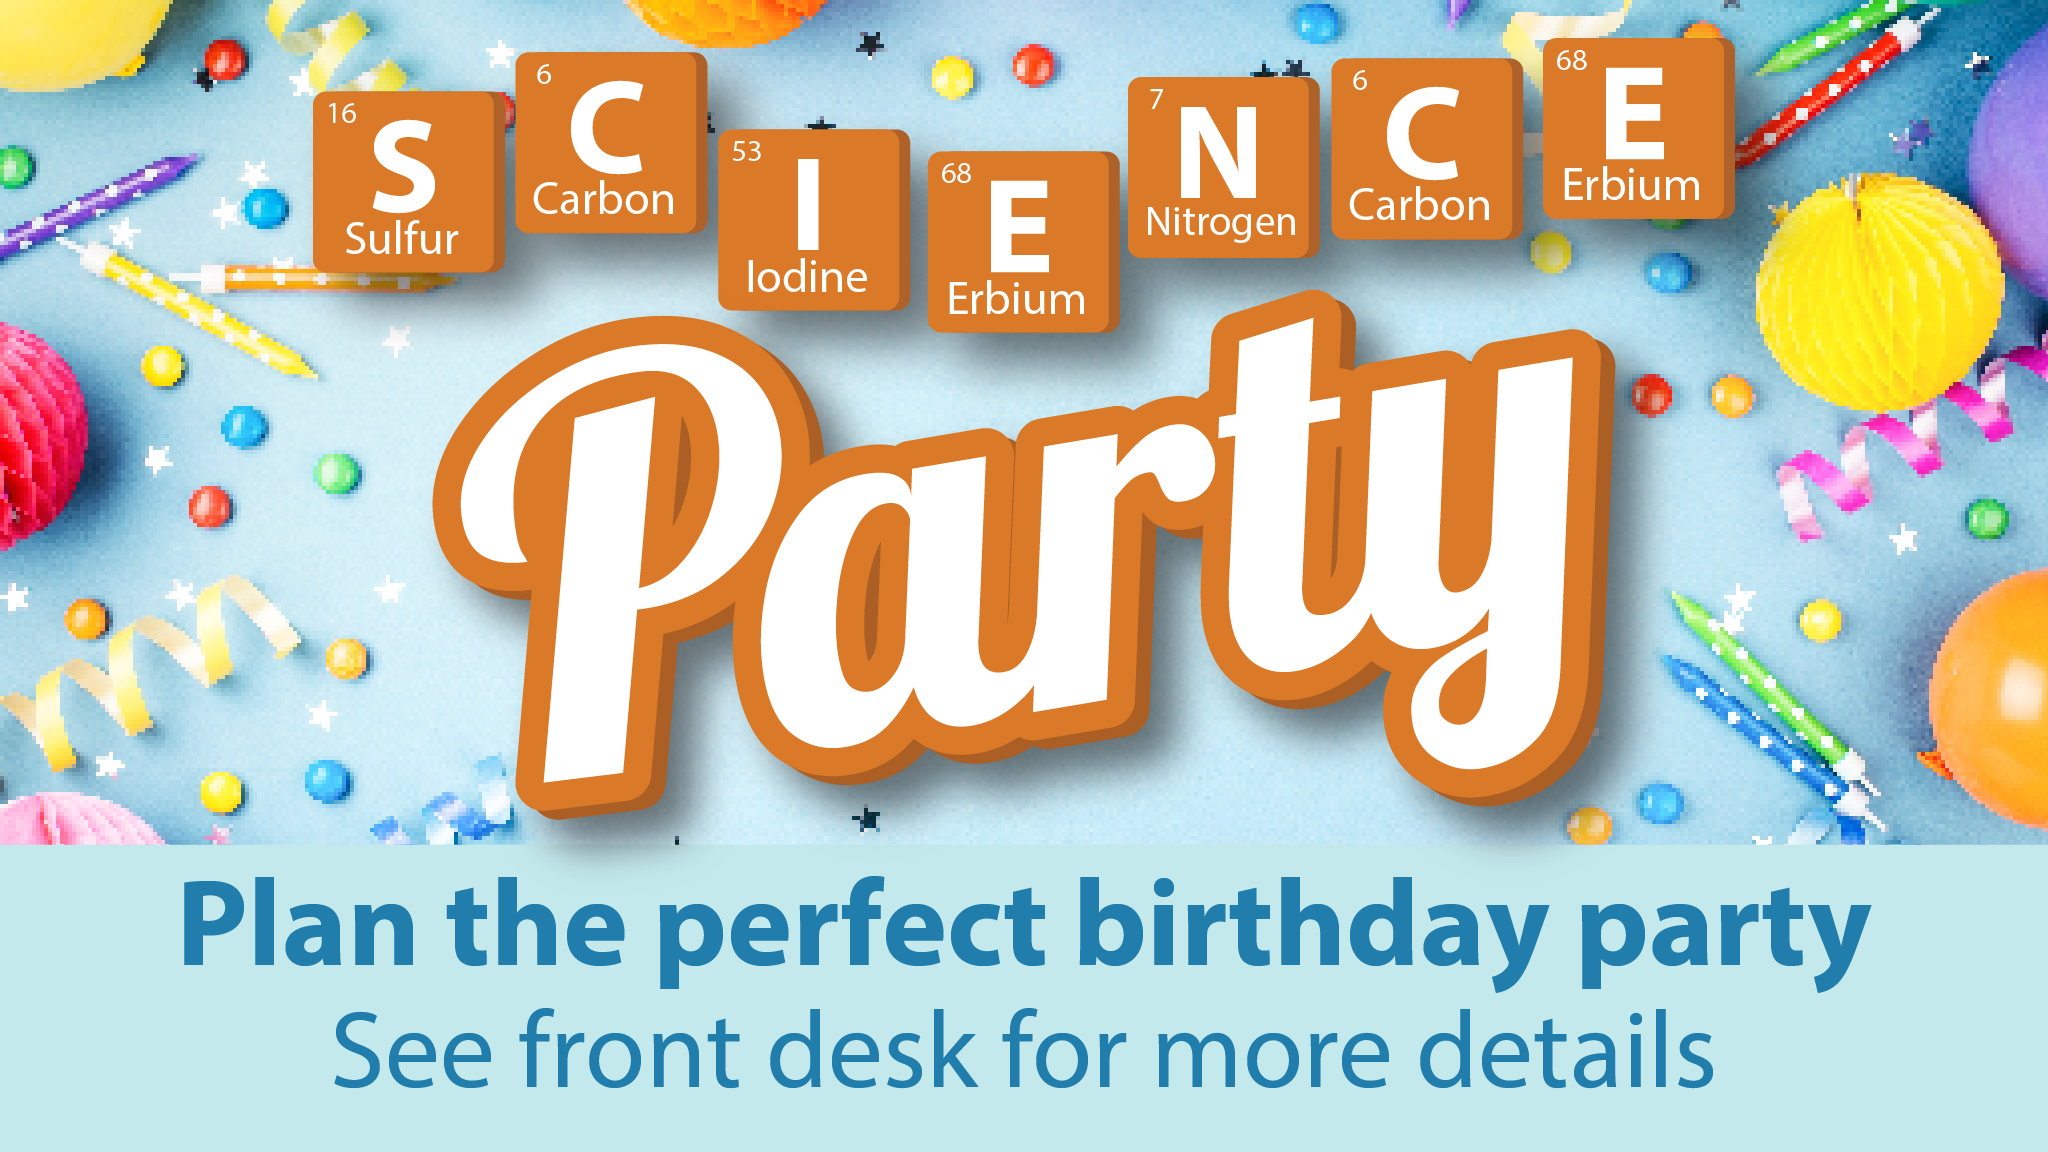
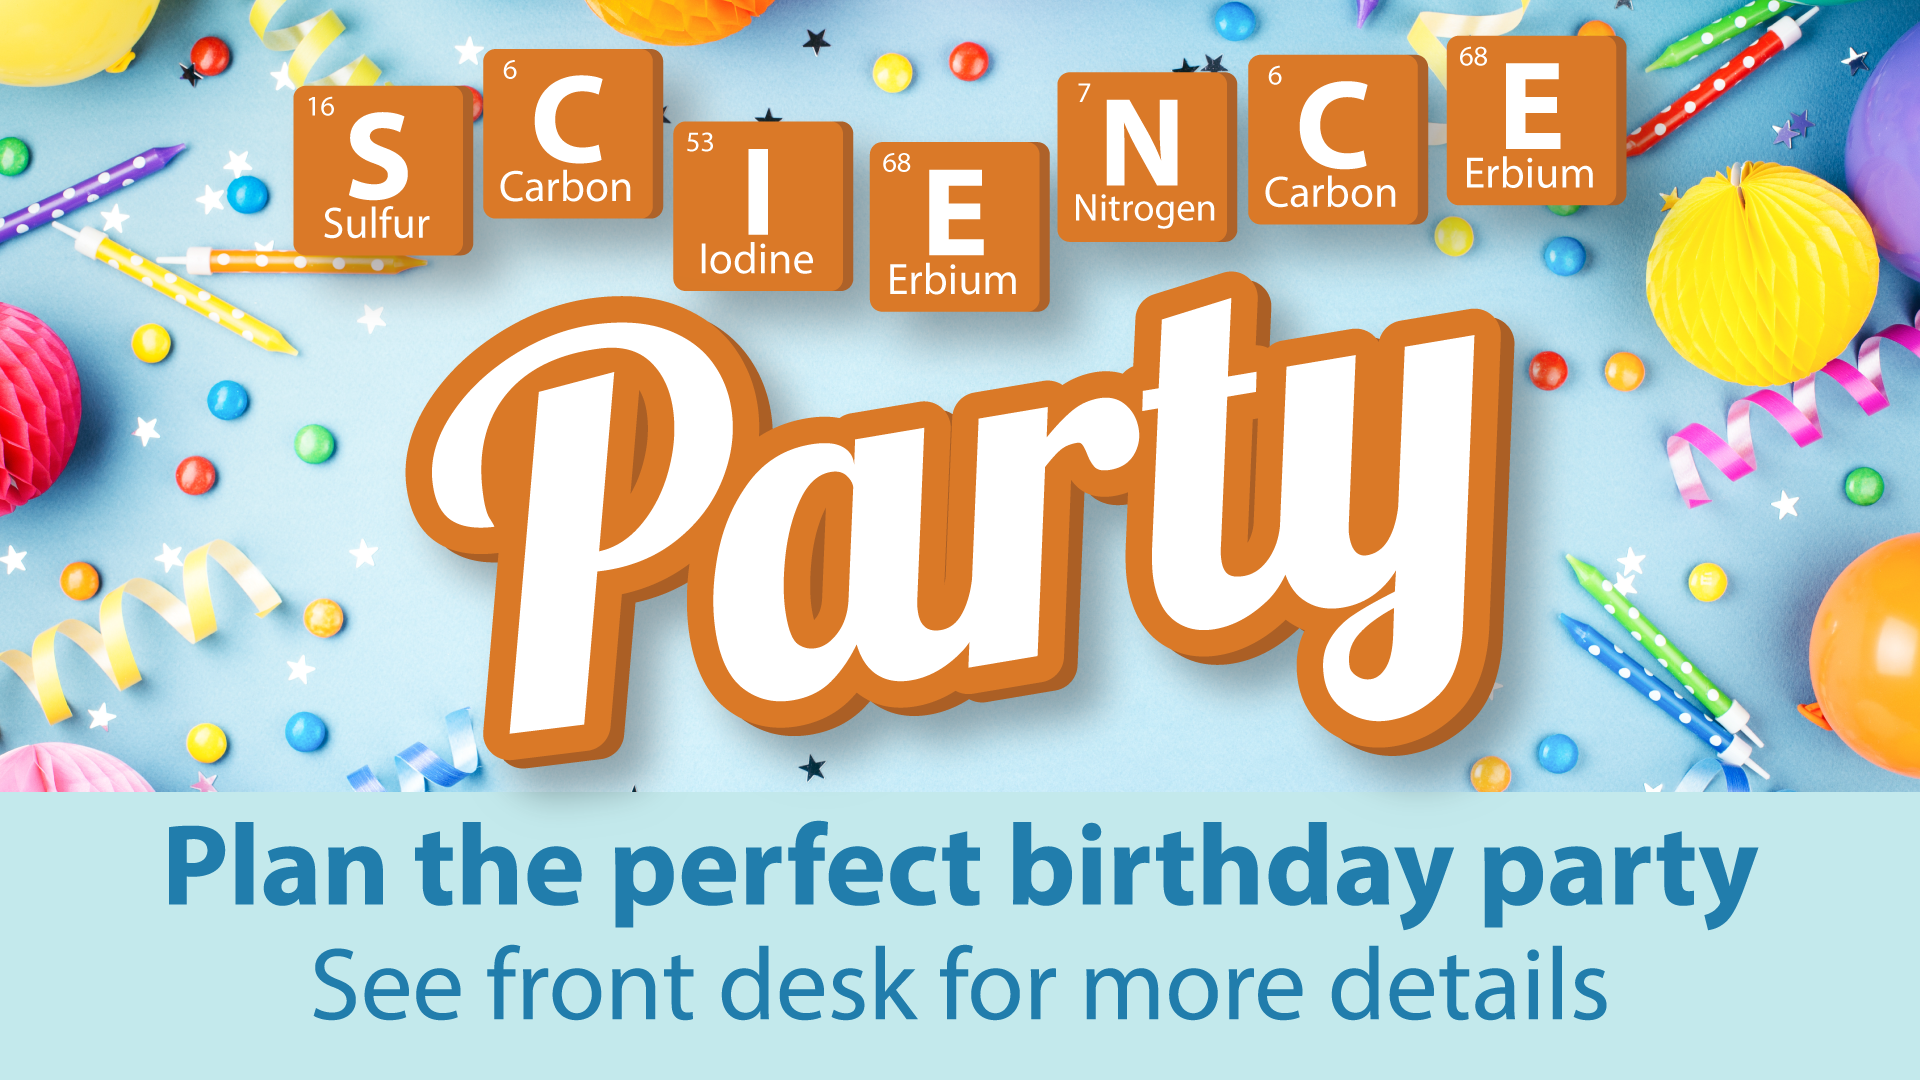
added new backgrounds

diff --git a/BDayBoardServer/javascript/main.js b/BDayBoardServer/javascript/main.js
@@ -6,7 +6,7 @@ let childName = ["empty"];
 let theme = ["empty"];
 let partyTime = ["empty"];
 let partyDate = ["empty"]
-let bgFiles = ["../backgrounds/dino.png","../backgrounds/temp.png","../backgrounds/no-parties.png"];
+let bgFiles = ["../backgrounds/dino.png","../backgrounds/art.png","../backgrounds/tech","../backgrounds/standard","../backgrounds/no-parties.png"];
 let time = new Date();
 
 //misc vars
@@ -140,8 +140,12 @@ function setname(){
     if (childIndex >= childNameActive.length){childIndex = 0;}
 // add extra loops here for backgrounds
     if (themeActive[childIndex] == "Dino"){bgImage = bgFiles[0];}
-    if (themeActive[childIndex] == "Temp"){bgImage = bgFiles[1];}
-    if (themeActive[childIndex] == "empty"){bgImage = bgFiles[2];}
+    if (themeActive[childIndex] == "Art"){bgImage = bgFiles[1];}
+    if (themeActive[childIndex] == "Tech"){bgImage = bgFiles[2];}
+    if (themeActive[childIndex] == "Standard"){bgImage = bgFiles[3];}
+    if (themeActive[childIndex] == "empty"){bgImage = bgFiles[4];}
+
+    
 
 
 

diff --git a/BDayBoardServer/import/index.php b/BDayBoardServer/import/index.php
@@ -82,8 +82,10 @@ $result = mysqli_query($dbconnect, $query);
                                 <input name="time_input" type="time"> 
                                 <input type="number" name="day_input" placeholder="Day" style="width: 20%;"> 
                                 <select name="theme_input">
+                                    <option value="Standard">Standard</option>    
                                     <option value="Dino">Dinosaur</option>
-                                    <option value="Temp">Temp</option>
+                                    <option value="Art">Art</option>
+                                    <option value="Tech">Tech</option>
                                 </select> 
                                 <input  type="submit" name="submit" value="Add">
                             </div>
